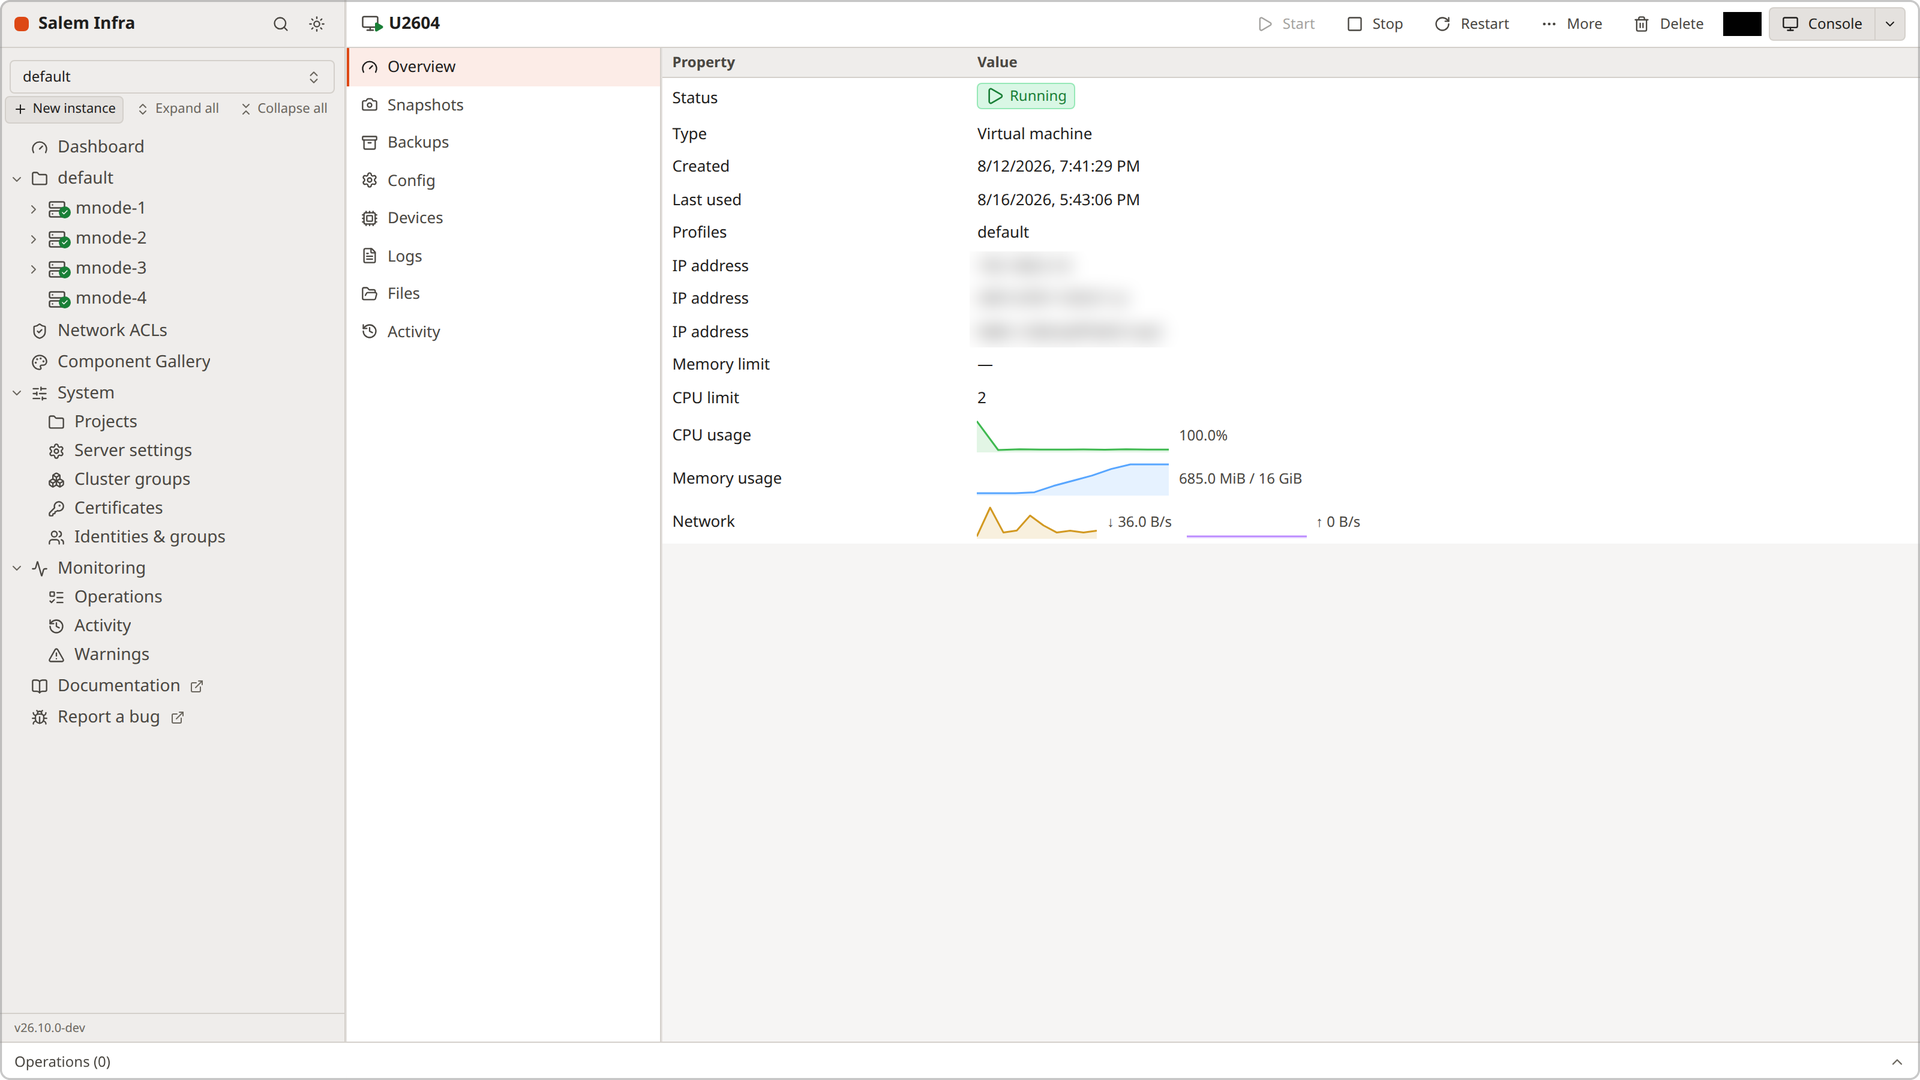
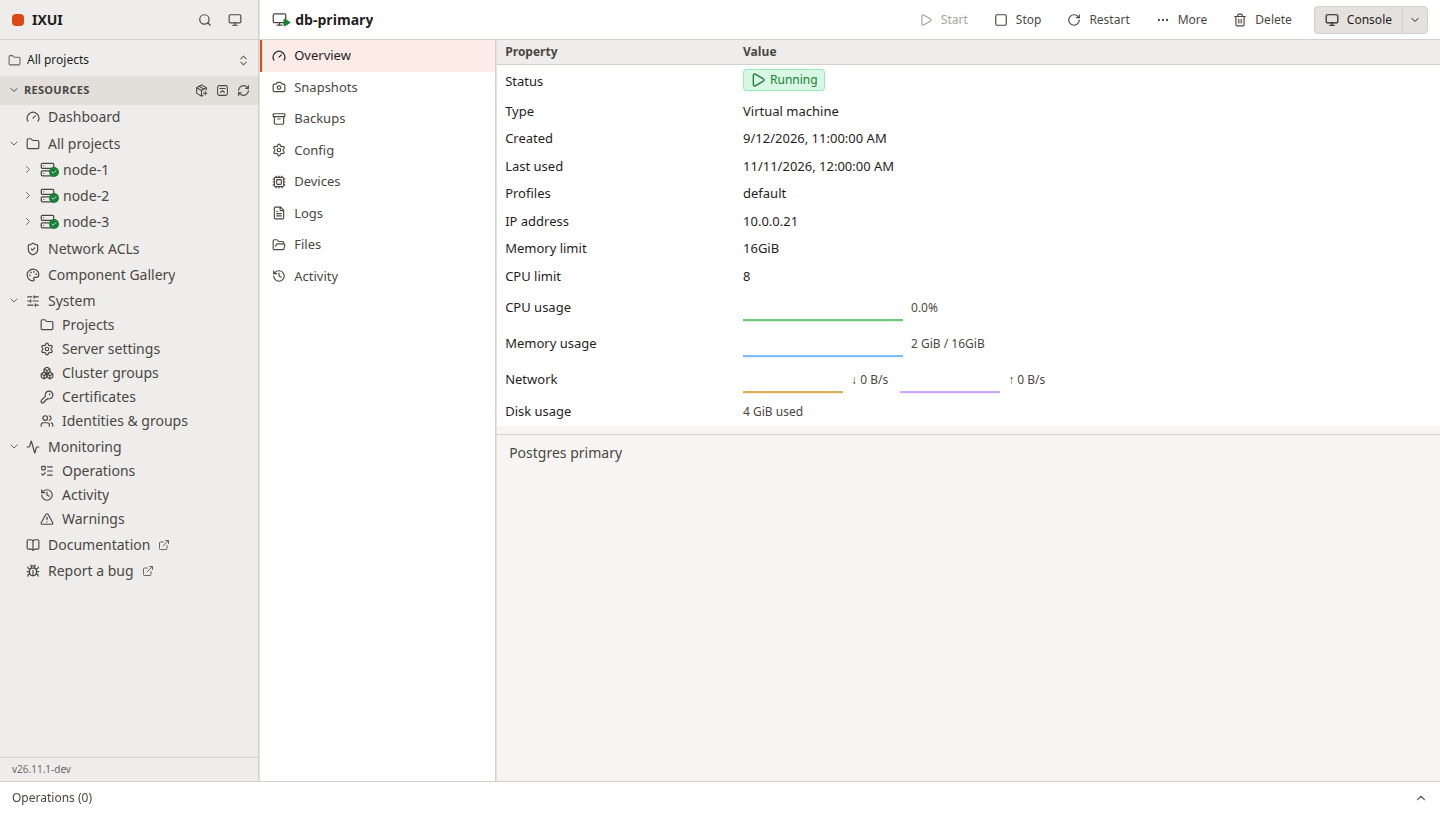
docs: present the project with demo-data screenshots

diff --git a/src/components/project-editor.tsx b/src/components/project-editor.tsx
@@ -352,7 +352,9 @@ export function ProjectEditor({ project, usage = {}, state, onClose, onSaved }: 
       title={creating ? "Create project" : `Edit project ${project.name}`}
       steps={steps}
       busy={busy}
-      wide
+      windowMode
+      windowWidth={960}
+      windowBodyHeight="min(680px, calc(100vh - 190px))"
       freeNavigation={!creating}
       submitLabel={creating ? "Create" : "Save"}
       submitIcon={creating ? <Plus size={14} /> : undefined}

diff --git a/README.md b/README.md
@@ -1,169 +1,188 @@
+# IXUI — a web interface for Incus
 
-
-# ixui — Incus Web UI
+[![CI](https://github.com/xlmnxp/ixui/actions/workflows/ci.yml/badge.svg)](https://github.com/xlmnxp/ixui/actions/workflows/ci.yml)
+[![Release](https://img.shields.io/github/v/release/xlmnxp/ixui?label=release)](https://github.com/xlmnxp/ixui/releases)
+[![License](https://img.shields.io/badge/license-Apache%202.0-blue)](LICENSE)
 
 > [!WARNING]
-> **Pre-alpha.** ixui is in early, pre-alpha development — expect missing
-> features, rough edges, and breaking changes. Don't rely on it to manage
-> production Incus servers yet.
+> **Pre-alpha.** IXUI is early software — expect missing features, rough edges and
+> breaking changes. Do not point it at a production cluster you are not prepared
+> to re-create.
 
-A hand-crafted React web UI for Incus. Dark Proxmox-style theme with ESXi-style
-layout, built entirely on a custom component system (no UI libraries). Features
-a cluster-aware member/instance tree, a project selector, vertical tabs for
-instance views, and a floating create-instance wizard.
+IXUI is a web UI for [Incus](https://linuxcontainers.org/incus/): a single-page
+React app that talks straight to incusd over its REST API and event stream. It is
+built on a hand-written component system — no component library, no CSS
+framework beyond Tailwind utilities — so the whole surface is ours to shape.
 
-![ixui](docs/screenshot.png)
+![Instance list with the cluster tree, bulk actions and the operations bar](docs/screenshots/hero.png)
+
+<table>
+<tr>
+<td width="50%"><img src="docs/screenshots/instance-overview-light.png" alt="Instance overview with live CPU, memory, network and disk sparklines"></td>
+<td width="50%"><img src="docs/screenshots/command-palette.png" alt="Command palette filtering instances and actions"></td>
+</tr>
+<tr>
+<td align="center"><em>Instance overview — live metrics and health</em></td>
+<td align="center"><em>Command palette — Ctrl/Cmd+K for anything</em></td>
+</tr>
+</table>
+
+*Screenshots use demo data.*
+
+## Why another UI
+
+- **Cluster-first.** The sidebar is a real tree: cluster members, their instances,
+  the project selector and the system/monitoring pages — not a flat table bolted
+  onto a cluster API.
+- **Fast to operate.** Bulk start/stop/restart/freeze/snapshot/delete, per-instance
+  context menus, a command palette and keyboard-navigable dialogs.
+- **Honest state.** Operations show live progress (download percentage, unpack
+  stage), the task bar keeps running work visible, and editors warn before you
+  throw away unsaved changes.
+- **Light and dark, remembered.** System/dark/light theme, remembered split
+  position and table sorting, and a drawer layout on narrow screens.
+- **Small dependency surface.** `lucide-react` for icons is the only UI dependency;
+  everything else is React, TypeScript and Tailwind tokens.
 
 ## Features
 
-- **Authentication** — TLS client certificate or OIDC sign-in, including
-  `user.ui.sso_only` redirect mode.
-- **Sidebar tree** — cluster members with their instances (flat list on
-  standalone servers), project selector with an all-projects mode,
-  expand/collapse all, create-instance button, and a right-click context menu
-  on instances (start / stop / restart / terminal / rename / delete / move to
-  node).
-- **Instances** — create wizard (simplestreams catalog + cached images,
-  profiles, storage pool, cluster member targeting); detail view with
-  Overview, Snapshots (create/restore/delete + an automatic-snapshots editor
-  for `snapshots.schedule`/`snapshots.expiry` with an enable switch), Config
-  editor with server-side key descriptions, Devices editor, Logs, Files, and
-  per-instance Activity tabs; lifecycle actions (start/stop/restart/freeze),
-  rename, copy, move (across projects and cluster members, optionally live),
-  delete, and backup export download; VM display thumbnail.
-- **File explorer** — browse an instance's filesystem with back/forward and a
-  path bar, open and edit text files in place, upload and download files,
-  create directories, and delete entries.
-- **Terminal** — popup shell terminal per instance, with a VGA (SPICE) console
-  toggle for VMs.
-- **Images** — local image list, pull from simplestreams remotes, alias
-  management.
-- **Networks** — create/delete networks and manage network forwards.
-- **Network ACLs** — project-scoped ACLs with an inline rule editor
-  (ingress/egress tables, action dropdown with icons, prefilled protocol
-  list, pfSense-like enable/disable and logging indicators, confirmed rule
-  removal) in a large draggable window; attach to NICs via the
-  `security.acls` device option.
-- **Storage** — create pools, manage custom volumes (create, rename, delete,
-  snapshots), upload ISOs.
-- **Profiles & projects** — full CRUD with config editors.
-- **Cluster** — member overview and capacity, evacuate/restore, join tokens,
-  cluster groups.
-- **System & Monitoring** — the sidebar's System group holds projects, server
-  settings, cluster groups, certificates, and identities & groups; Monitoring
-  holds the operations log (with a persistent task bar), the activity
-  (lifecycle event) log, and warnings.
-- **Realtime** — the Incus events websocket drives live instance status and
-  operation updates.
-- **Command palette** — Ctrl/Cmd+K jumps to any instance, page or project and
-  runs start/stop/restart/terminal/create actions.
-- **Bulk instance actions** — start, stop, restart, freeze, snapshot, and
-  delete across a selection, with per-instance failure reporting.
-- **Backups** — per-instance backup list with create (instance-only /
-  optimized options), download, and delete.
-- **Network zones & address sets** — project-scoped side tabs beside Networks:
-  create, edit, and delete.
-- **Load balancers & peers** — per-network dialog (peers on OVN networks).
-- **Backup import** — create an instance from an uploaded backup archive.
-- **Identities & groups** — assign groups to identities and manage auth
-  groups with permissions (OpenFGA).
-- **Project usage** — real limits and usage (from the project state
-  endpoint) in the projects table and editor.
-- **Cluster member editing** — description, failure domain, groups, and
-  user-assignable roles.
-- **Usage graphs** — live CPU, memory, network throughput, and disk usage on
-  the instance overview.
-- **Themes & layout** — system/dark/light theme, remembered split position and
-  table sort, and a drawer navigation on narrow screens.
-- **Accessibility** — focus-trapped dialogs, keyboard-navigable tree and
-  tabs, and axe checks in the test suite.
-- **Component system** — custom-built primitives (no UI libraries) with a
-  browsable gallery.
+**Instances**
+- Create wizard: simplestreams catalog or cached images, profile selection,
+  memory/CPU limits, network, target cluster member.
+- Detail view with Overview (live CPU/memory/network/disk sparklines), Snapshots,
+  Backups, Config, Devices, Logs, Files and per-instance Activity.
+- Lifecycle actions (start, stop, restart, freeze), rename, copy, move across
+  projects and members (optionally live), delete, backup export download, and a VM
+  console thumbnail.
+- Automatic snapshots: an editor for `snapshots.schedule` / `snapshots.expiry` with
+  an enable switch.
+- Backups: create (instance-only or optimised), download, delete; import an
+  instance from an uploaded backup archive.
 
-## Not yet implemented
+**Files and terminal**
+- File explorer with back/forward history, a path bar, in-place text editing,
+  upload, download, create folder and delete.
+- Popup shell terminal per instance, plus a SPICE (VGA) console for VMs with
+  fit-to-window scaling.
 
-- Storage buckets.
-- Image upload, export, or property editing.
-- Instance rebuild.
-- Persistent metrics history (graphs show only the current session's samples).
-- Localization.
+**Infrastructure**
+- Images: local list, pull from simplestreams remotes, alias management.
+- Networks: create/delete, forwards, load balancers, and peers on OVN networks;
+  network zones and address sets in their own tabs.
+- Network ACLs: project-scoped rules with a large rule editor (ingress/egress,
+  action dropdown, protocol presets, logging and state indicators).
+- Storage: pools, custom volumes (create, rename, resize, snapshots, attach), ISO
+  import, and buckets with an object-store friendly driver list.
+- Profiles and projects: full CRUD, project usage against real limits, and
+  stepped editors.
+- Cluster: member overview and capacity, evacuate/restore, join tokens, cluster
+  groups, failure domains and member editing.
 
-## Development
+**Everything else**
+- Authentication via TLS client certificate or OIDC, including the
+  `user.ui.sso_only` redirect mode and `user.ui.title` branding.
+- Realtime updates from the Incus event websocket, with automatic reconnects.
+- Operations and activity logs, warnings, a persistent task bar with live progress,
+  and cancellation.
+- Identities and auth groups (OpenFGA), certificates, and server settings.
+- Accessibility: focus-trapped dialogs, keyboard-navigable tree and tabs, axe
+  checks in the test suite.
+- A component gallery at `/ui/gallery` showing every primitive and its states.
 
-Requirements: local incusd reachable at `https://127.0.0.1:8443`, client cert in
-`~/.config/incus/` (generate with `incus list` if missing).
+## Quick start
+
+Requirements: Node 20+, and an incusd you can reach (defaults to
+`https://127.0.0.1:8443`).
 
 ```bash
-incus config set core.https_address :8443
+git clone https://github.com/xlmnxp/ixui.git
+cd ixui
 npm install
+
+# client certificate for the dev proxy
+incus list >/dev/null 2>&1 || incus remote add local https://127.0.0.1:8443
+
 npm run dev
 ```
 
-Open http://localhost:5173/ui/. The Vite plugin proxies `/1.0`, `/1.0/events`,
-`/oidc`, and `/documentation` to incusd using your client cert. Override with
-`INCUS_CERT_DIR` and `INCUS_TARGET` env vars.
-
-`lucide-react` is the only icon dependency (component system rule: no other UI
-libraries).
-
-The instance Terminal opens in a browser popup at `/ui/terminal/<instance>` with
-a shell (and VGA toggle for VMs). The sidebar tree's `+` buttons create
-instances, targeted at the hovered cluster member. Config-key descriptions come
-from `GET /1.0/metadata` — enable them on the server with
-`incus config set metadata.enabled true` (the UI shows "—" when unavailable).
-
-## Testing
+Open <http://localhost:5173/ui/>. The Vite plugin proxies `/1.0`, the event
+websocket, `/oidc` and `/documentation` to incusd using the client certificate in
+`~/.config/incus/`. Point it elsewhere with environment variables:
 
 ```bash
-npm test        # vitest unit + component tests
-npm run typecheck
-npm run lint
+INCUS_TARGET=https://incus.example.com:8443 INCUS_CERT_DIR=~/.config/incus npm run dev
 ```
 
-## Production (served by incusd at /ui/)
+## Deploy
 
 ```bash
-npm run build
-```
-
-Copy the contents of `dist/` into incusd's UI assets directory (commonly
-`/usr/share/incus/ui` — confirm the path on your distro), then restart incusd:
-
-```bash
-sudo cp -r dist/* /usr/share/incus/ui/
+npm run build   # type-check + bundle into dist/
+sudo cp -r dist/* /usr/share/incus/ui/   # confirm the path on your distro
 sudo systemctl restart incus
 ```
 
-Browse to https://your-host:8443/ui/. Authentication is automatic when your
-browser has the server's client certificate installed, or via OIDC otherwise.
+Then browse to `https://your-host:8443/ui/`. Authentication is automatic when the
+browser has a trusted client certificate, or through OIDC when configured.
 
-## Component system
+### Server options the UI reads
 
-Design tokens live in `src/styles/theme.css` (`@theme`). Primitives live in
-`src/components/`, each with unit + component tests — including Window
-(now with configurable size), Dialog (regular + wide), Loading,
-SnapshotSchedule, VerticalTabs, and ProjectDropdown. The gallery at
-http://localhost:5173/ui/gallery shows every component and its variants.
+| Key | Effect |
+| --- | --- |
+| `user.ui.title` | Name shown in the sidebar and window title |
+| `user.ui.sso_only` | `true` skips the local login screen and redirects to OIDC |
+| `metadata.enabled` | `true` exposes config-key descriptions in editors |
 
-## AI-assisted development
+```bash
+incus config set user.ui.title "Acme Cloud"
+incus config set metadata.enabled true
+```
 
-ixui is developed with substantial help from AI / LLM coding tools. Generated
-code is human-reviewed and covered by the test suite, but given the pre-alpha
-state you should apply the usual scrutiny before trusting it with your servers.
-Bug reports are very welcome.
+## Project layout
 
-## License
+```
+src/
+  api/          typed Incus REST client, event stream, endpoint modules
+  components/   hand-written primitives (Dialog, Window, Table, Tree, …)
+  lib/          small helpers: paths, formatting, guards, operation progress
+  pages/        route-level screens, one folder per instance tab
+  shell/        layout, sidebar tree, command palette, task bar, context menus
+  state/        tiny external stores consumed through useSyncExternalStore
+  styles/       design tokens (@theme) and the two theme variants
+scripts/        conventional-commit release tooling
+plugins/        Vite dev proxy for incusd (HTTP + websocket)
+```
 
-Copyright 2026 Salem Alsaiari
+## Development
 
-ixui is licensed under the [Apache License 2.0](LICENSE).
+```bash
+npm run dev        # Vite dev server with the Incus proxy
+npm run build      # type-check then bundle
+npm test           # vitest unit + component tests
+npm run typecheck  # tsc --noEmit
+npm run lint       # eslint, zero warnings allowed
+```
+
+Design tokens live in `src/styles/theme.css`; every component in
+`src/components/` ships with tests. The gallery at `/ui/gallery` renders each one
+with its variants and states.
 
 ## Releases
 
-Releases are fully automatic and use year-month versions (`YY.M.N`, e.g.
-`26.10.0`). Commit messages follow
-[Conventional Commits](https://www.conventionalcommits.org/): `feat`, `fix`,
-`perf` and breaking changes trigger a release, which gets a tag, an updated
-`CHANGELOG.md`, and a GitHub release with `ixui-<version>.zip` (the contents of
-`dist/`) and its checksum. The running app shows its version at the bottom of the
-sidebar. See [CONTRIBUTING.md](CONTRIBUTING.md) for the rules.
+Releases are automatic. Commit messages follow
+[Conventional Commits](https://www.conventionalcommits.org/); `feat`, `fix`,
+`perf` and breaking changes trigger a release with a tag, an updated
+`CHANGELOG.md`, and a GitHub release carrying `ixui-<version>.zip` (the built
+`dist/`) plus its checksum. Versions are year-month based (`YY.M.N`), and the
+running app shows its version at the bottom of the sidebar.
+
+## AI-assisted development
+
+IXUI is built with substantial help from AI coding tools. Contributions are
+human-reviewed and covered by the test suite, but given the pre-alpha state,
+apply the usual scrutiny before trusting it with your clusters. Bug reports and
+pull requests are very welcome.
+
+## License
+
+Copyright 2026 Salem Alsaiari. Licensed under the
+[Apache License 2.0](LICENSE).
